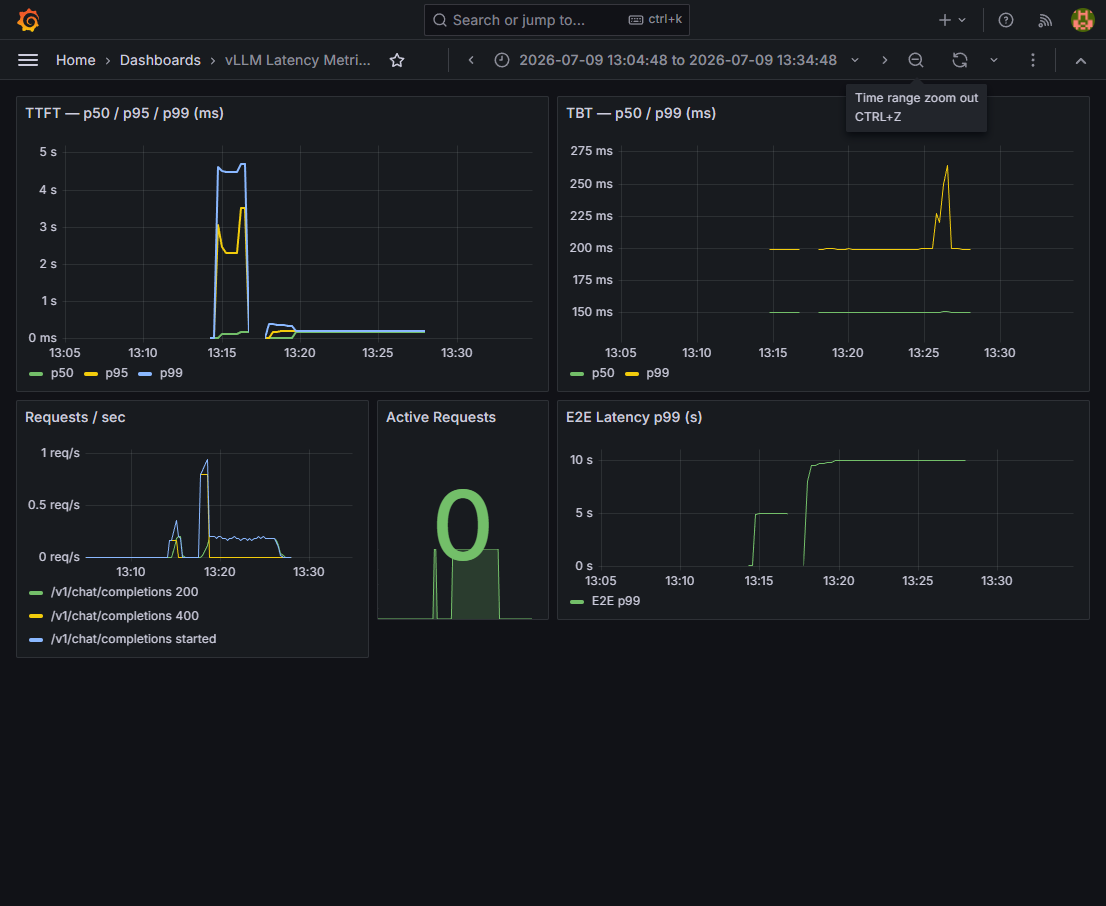
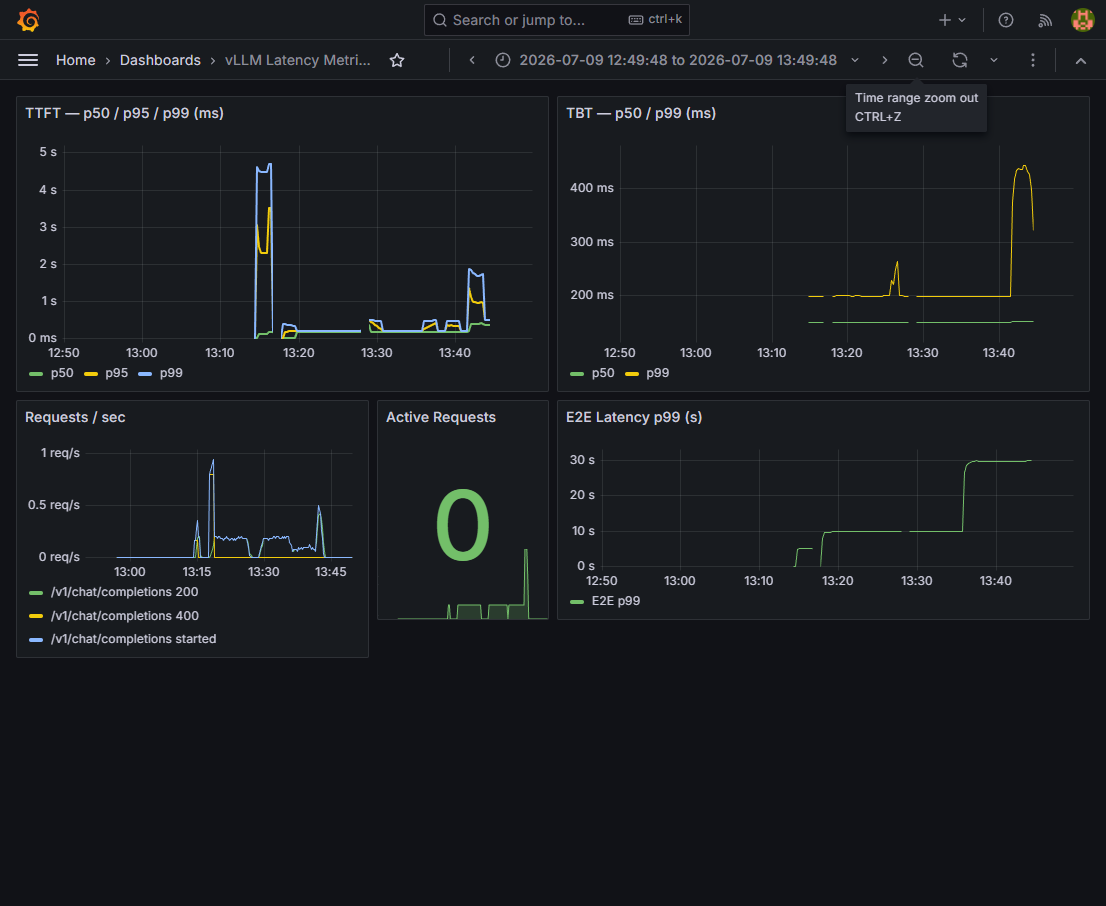
Fix lint, Grafana URL, and refresh dashboard screenshot.
Remove unused variable in chart script, correct Grafana link to use 127.0.0.1 and full dashboard slug.

diff --git a/scripts/generate_benchmark_chart.py b/scripts/generate_benchmark_chart.py
@@ -104,7 +104,6 @@ def chart_percentiles(direct: list[dict], proxy: list[dict]) -> None:
     fig, axes = plt.subplots(1, 2, figsize=(9.5, 3.8), dpi=150, sharey=True)
     fig.patch.set_facecolor("white")
 
-    percentiles = ("p50", "p95", "p99")
     labels = ("P50", "P95", "P99")
     keys = ("ttft_p50", "ttft_p95", "ttft_p99")
 
@@ -137,7 +136,7 @@ def chart_distribution(ttft_ms: list[float]) -> None:
     ax.axvline(np.percentile(ttft_ms, 99), color="#e5484d", linestyle="--", linewidth=1.2, label=f"P99 {np.percentile(ttft_ms, 99):.0f} ms")
     ax.set_xlabel("TTFT (ms)")
     ax.set_ylabel("Requests")
-    ax.set_title("Proxy TTFT distribution · concurrency 1 · n=50", fontsize=10, fontweight="bold")
+    ax.set_title(f"Proxy TTFT distribution · concurrency 1 · n={len(ttft_ms)}", fontsize=10, fontweight="bold")
     ax.spines[["top", "right"]].set_visible(False)
     ax.legend(fontsize=8, frameon=False)
 

diff --git a/README.md b/README.md
@@ -273,7 +273,7 @@ curl -N http://localhost:8082/v1/chat/completions \
 | vLLM (raw) | http://localhost:8000 | Upstream inference server |
 | Prometheus | http://localhost:9090 | Metrics collection |
 | Alertmanager | http://localhost:9093 | Alert routing |
-| Grafana | http://localhost:3000 | Dashboards (`admin` / `admin`) |
+| Grafana | http://127.0.0.1:3000 | Dashboards (`admin` / `admin`) — use `127.0.0.1`, not `localhost` |
 
 ---
 
@@ -309,11 +309,11 @@ Alert rules: [`monitoring/alerts.yml`](monitoring/alerts.yml) · Alertmanager: [
 
 ### Grafana dashboard (live hardware)
 
-Captured after **437 successful requests** on NVIDIA T1000 8 GB · `facebook/opt-1.3b` · proxy `:8082`.
+Captured after **468 successful requests** on NVIDIA T1000 8 GB · `facebook/opt-1.3b` · proxy `:8082`.
 
 ![Grafana dashboard showing TTFT p50/p95/p99, TBT p50/p99, requests/sec, active requests, and E2E latency p99 over a 30-minute window with sustained real traffic](docs/images/grafana-latency-dashboard.png)
 
-Open locally: `http://127.0.0.1:3000/d/vllm-latency-1a` (`admin` / `admin`)
+Open locally: `http://127.0.0.1:3000/d/vllm-latency-1a/vllm-latency-metrics-e28094-project-1a` (`admin` / `admin`)
 
 Generate demo traffic for recruiters / reviewers:
 
